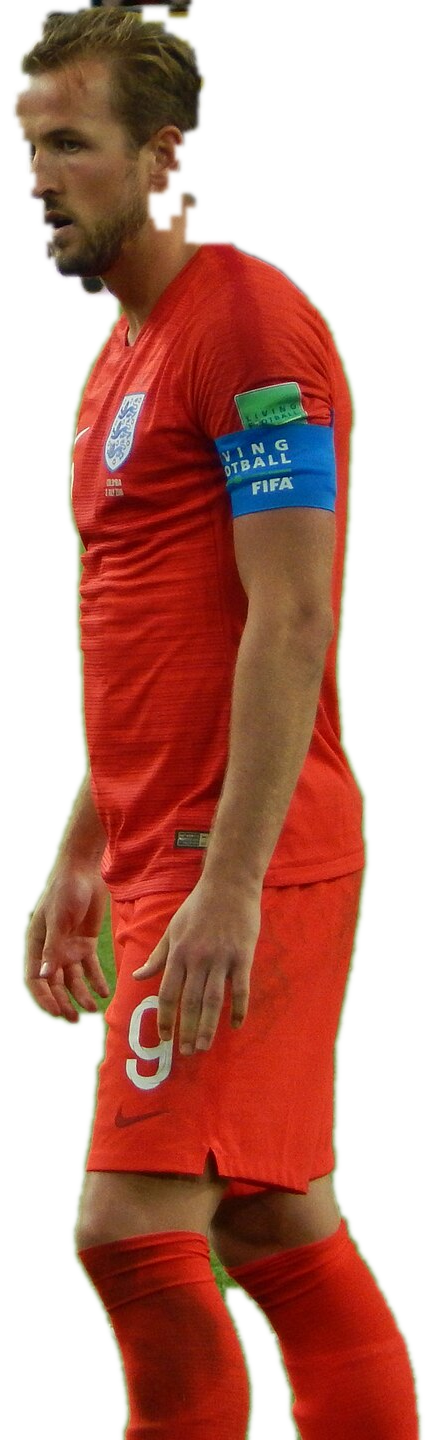
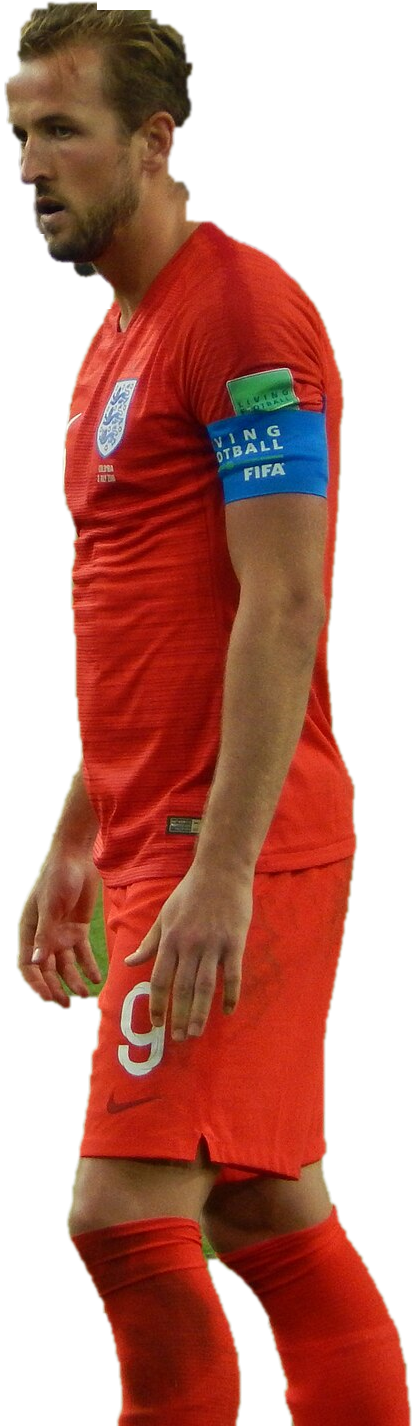
rival-lines: cleaner Kane cut-out (full-resolution GrabCut from a trimap, despill, specks removed; script in docs) and a simpler hero thumbnail
Claude-Session: https://claude.ai/code/session_015ozsPpKa2iqjGG9cpMrs9J

diff --git a/src/skills/remotion-render/channels/lf2/rival.jsx b/src/skills/remotion-render/channels/lf2/rival.jsx
@@ -382,7 +382,7 @@ export function SubCard({ t, cam, minute, off, on, team, fact }) {
 const RedArrow = ({ d, w = 11 }) => <svg width="1920" height="1080" style={{ position: "absolute" }}><path d={d} stroke="#E5252A" strokeWidth={w} fill="none" strokeLinecap="round" strokeLinejoin="round" /></svg>;
 function ThumbBase({ children }) {
   return <AbsoluteFill style={{ background: "radial-gradient(90% 90% at 50% 45%, #FFFFFF 0%, #E9E9E6 70%, #D8D8D4 100%)", fontVariantNumeric: "lining-nums" }}><Fonts /><style>{"*{font-variant-numeric:lining-nums}"}</style>
-    <div style={{ position: "absolute", left: 46, top: 34, fontFamily: F.display, fontWeight: 700, fontSize: 56, color: "#111" }}>r</div>
+    <div style={{ position: "absolute", left: 46, top: 34, fontFamily: F.display, fontWeight: 700, fontSize: 44, color: "#111", opacity: 0.8 }}>r</div>
     {children}</AbsoluteFill>;
 }
 const Phrase = ({ parts, size = 150, top = 70 }) => <div style={{ position: "absolute", left: 0, right: 0, top, textAlign: "center", fontFamily: F.display, fontSize: size, lineHeight: 1.04, color: "#111", letterSpacing: "-0.01em" }}>{parts.map(([t, b], i) => <span key={i} style={{ fontWeight: b ? 900 : 400 }}>{t} </span>)}</div>;
@@ -407,17 +407,14 @@ export function ThumbCompare({ a, b, phrase }) {
 }
 
 export function ThumbHero({ cutout, parts, line2, big, credit }) {
-  // the reference formula: a cut-out player on a light gradient with a speed streak behind him, a lower-case serif phrase with one bold word, a red hand-drawn arrow
+  // the reference formula, kept clean: a cut-out player on a light gradient, one soft speed ghost, a lower-case serif phrase with one bold word, one red hand-drawn arrow
   return (<ThumbBase>
-    <div style={{ position: "absolute", right: 200, top: 0, height: 1080, width: 560 }}>
-      {[0.5, 0.32, 0.18].map((o, i) => <Img key={i} src={staticFile(cutout)} style={{ position: "absolute", right: 70 * (i + 1) + 40, top: 0, height: 1080, filter: `blur(${10 + i * 8}px) grayscale(0.2)`, opacity: o }} />)}
-      <Img src={staticFile(cutout)} style={{ position: "absolute", right: 0, top: 0, height: 1080, filter: "drop-shadow(0 18px 30px rgba(0,0,0,0.28))" }} />
-    </div>
-    <div style={{ position: "absolute", left: 90, top: 200, fontFamily: F.display, fontSize: 150, lineHeight: 1.02, color: "#111", letterSpacing: "-0.01em" }}>{parts.map(([t, b], i) => <div key={i} style={{ fontWeight: b ? 900 : 400 }}>{t}</div>)}</div>
-    {big && <div style={{ position: "absolute", left: 90, top: 700, fontFamily: F.display, fontWeight: 900, fontSize: 300, lineHeight: 1, color: "#111" }}>{big}</div>}
-    {line2 && <div style={{ position: "absolute", left: 96, top: 930, fontFamily: F.display, fontStyle: "italic", fontSize: 50, color: "#444" }}>{line2}</div>}
-    <RedArrow d="M 900 300 C 1060 220, 1180 250, 1230 380" /><RedArrow d="M 1186 340 L 1232 384 L 1172 396" />
-    {credit && <div style={{ position: "absolute", right: 24, bottom: 14, fontFamily: F.sans, fontSize: 15, color: "#666" }}>{credit}</div>}
+    <Img src={staticFile(cutout)} style={{ position: "absolute", right: 360, top: 20, height: 1040, filter: "blur(16px)", opacity: 0.22 }} />
+    <Img src={staticFile(cutout)} style={{ position: "absolute", right: 150, top: 14, height: 1052, filter: "drop-shadow(0 22px 28px rgba(0,0,0,0.25))" }} />
+    <div style={{ position: "absolute", left: 100, top: 230, fontFamily: F.display, fontSize: 168, lineHeight: 1.0, color: "#111", letterSpacing: "-0.015em" }}>{parts.map(([t, b], i) => <div key={i} style={{ fontWeight: b ? 900 : 400 }}>{t}</div>)}</div>
+    {line2 && <div style={{ position: "absolute", left: 106, top: 960, fontFamily: F.display, fontStyle: "italic", fontSize: 44, color: "#555" }}>{line2}</div>}
+    <RedArrow d="M 820 330 C 960 250, 1090 280, 1130 400" w={10} /><RedArrow d="M 1088 366 L 1132 404 L 1074 420" w={10} />
+    {credit && <div style={{ position: "absolute", right: 22, bottom: 12, fontFamily: F.sans, fontSize: 14, color: "#888" }}>{credit}</div>}
   </ThumbBase>);
 }
 

diff --git a/docs/longform/episodes/replicate-2026-11-16/cutout-kane.py b/docs/longform/episodes/replicate-2026-11-16/cutout-kane.py
@@ -1,0 +1,55 @@
+"""Cut a player out of a licensed photo (OpenCV only, no model download).
+Photo: File:FWC 2018 - Round of 16 - COL v ENG - Photo 098.jpg (Voltmetro, CC BY-SA 4.0, via Wikimedia Commons); Harry Kane before his penalty in the Colombia v England shoot-out.
+Pass 1 half-resolution GrabCut + colour rules, pass 2 full-resolution GrabCut from a trimap, edge despill, specks removed, one connected piece.
+Usage: python cutout-kane.py <photo.jpg> <out.png>"""
+import sys, cv2, numpy as np
+src, dst = sys.argv[1], sys.argv[2]
+img = cv2.imread(src); H, W = img.shape[:2]
+b, g, r = [img[:, :, i].astype(int) for i in range(3)]
+s = 0.5; small = cv2.resize(img, (int(W * s), int(H * s)), interpolation=cv2.INTER_AREA); h, w = small.shape[:2]
+mk = np.full((h, w), cv2.GC_PR_BGD, np.uint8); mk[:, :int(w * 0.44)] = cv2.GC_BGD; mk[:, int(w * 0.9):] = cv2.GC_BGD
+mk[:, int(w * 0.52):int(w * 0.84)] = cv2.GC_PR_FGD; mk[int(h * 0.25):int(h * 0.95), int(w * 0.58):int(w * 0.77)] = cv2.GC_FGD
+cv2.grabCut(small, mk, None, np.zeros((1, 65)), np.zeros((1, 65)), 5, cv2.GC_INIT_WITH_MASK)
+m = np.where((mk == cv2.GC_FGD) | (mk == cv2.GC_PR_FGD), 255, 0).astype(np.uint8); m = cv2.resize(m, (W, H), interpolation=cv2.INTER_NEAREST)
+blue = ((b > r + 60) & (b > 140) & (r < 110)).astype(np.uint8)
+prot = np.zeros(blue.shape, bool)
+m[(g > r + 6) & (g > b + 6) & ~prot] = 0                                    # grass
+hair = (r < 150) & (g < 115) & (b < 95) & (r > b + 8); skin = (r > 150) & (g > 95) & (b > 70) & (r > g + 12)
+top = np.zeros_like(m, bool); top[:int(H * 0.17), :] = True; m[top & ~(hair | skin)] = 0
+m[(r > 170) & (g > 150) & (b < 90)] = 0
+m = cv2.morphologyEx(m, cv2.MORPH_OPEN, np.ones((11, 11), np.uint8)); m = cv2.morphologyEx(m, cv2.MORPH_CLOSE, np.ones((17, 17), np.uint8))
+def largest(x):
+    n, lab, st, _ = cv2.connectedComponentsWithStats(x); k = 1 + np.argmax(st[1:, cv2.CC_STAT_AREA]); return np.where(lab == k, 255, 0).astype(np.uint8)
+def fill_inner_holes(x):
+    inv = cv2.bitwise_not(x); n, lab, st, _ = cv2.connectedComponentsWithStats(inv); hh, ww = x.shape
+    for i in range(1, n):
+        a, c, d, e, _ = st[i]
+        if a > 0 and c > 0 and a + d < ww and c + e < hh: x[lab == i] = 255
+    return x
+m = fill_inner_holes(largest(m))
+ys, xs = np.where(m > 0); x0, x1 = max(0, xs.min() - 60), min(W, xs.max() + 60)
+crop = img[:, x0:x1].copy(); mc = m[:, x0:x1]; ker = np.ones((3, 3), np.uint8)
+tri = np.full(mc.shape, cv2.GC_PR_BGD, np.uint8); tri[mc > 0] = cv2.GC_PR_FGD
+tri[cv2.erode(mc, ker, iterations=9) > 0] = cv2.GC_FGD; tri[cv2.bitwise_not(cv2.dilate(mc, ker, iterations=9)) > 0] = cv2.GC_BGD
+cv2.grabCut(crop, tri, None, np.zeros((1, 65)), np.zeros((1, 65)), 4, cv2.GC_INIT_WITH_MASK)
+m2 = np.where((tri == cv2.GC_FGD) | (tri == cv2.GC_PR_FGD), 255, 0).astype(np.uint8)
+cb, cg, cr = [crop[:, :, i].astype(int) for i in range(3)]
+m2_raw = m2.copy()
+m2[(cg > cr + 6) & (cg > cb + 6)] = 0
+# put the green badge back: it sits directly above the blue armband, inside the band's width
+bl = blue[:, x0:x1]; nB, labB, stB, _ = cv2.connectedComponentsWithStats(bl); kB = 1 + np.argmax(stB[1:, cv2.CC_STAT_AREA]); bx, by, bw, bh = stB[kB][:4]
+box = (slice(max(0, by - 80), by + 6), slice(bx - 4, bx + bw + 4)); m2[box] = np.maximum(m2[box], m2_raw[box])
+# smear above the hair (flag / banner): green-yellow tint in the top 8% goes
+gy = (cg > cr - 5); m2[:int(H * 0.08)][gy[:int(H * 0.08)]] = 0
+m2 = cv2.morphologyEx(m2, cv2.MORPH_OPEN, np.ones((7, 7), np.uint8)); m2 = cv2.morphologyEx(m2, cv2.MORPH_CLOSE, np.ones((9, 9), np.uint8))
+m2 = fill_inner_holes(largest(m2)); m2 = cv2.erode(m2, ker, iterations=1)
+m2[:int(H * 0.012), :] = 0                                                 # fragment of banner above the hair
+band = slice(int(H * 0.115), int(H * 0.23)); op = cv2.morphologyEx(m2[band], cv2.MORPH_OPEN, cv2.getStructuringElement(cv2.MORPH_ELLIPSE, (19, 19)))
+m2[band] = np.minimum(m2[band], cv2.dilate(op, ker))                         # specks around the neck
+m2 = fill_inner_holes(largest(m2))
+alpha = cv2.GaussianBlur(m2, (0, 0), 1.2)
+edge = (cv2.dilate(m2, ker, iterations=5) > 0) & (cv2.erode(m2, ker, iterations=5) == 0)
+c = crop.astype(np.float32); lim = np.maximum(c[:, :, 0], c[:, :, 2]); spill = edge & (c[:, :, 1] > lim); c[:, :, 1] = np.where(spill, lim, c[:, :, 1])
+out = np.dstack([np.clip(c, 0, 255).astype(np.uint8), alpha])
+ys, xs = np.where(alpha > 30); out = out[max(0, ys.min() - 3):ys.max() + 3, max(0, xs.min() - 6):xs.max() + 6]
+cv2.imwrite(dst, out); print(out.shape)
